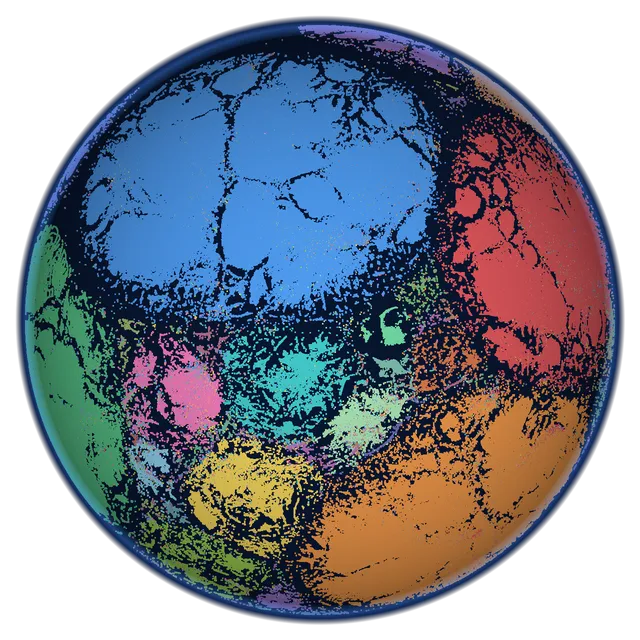
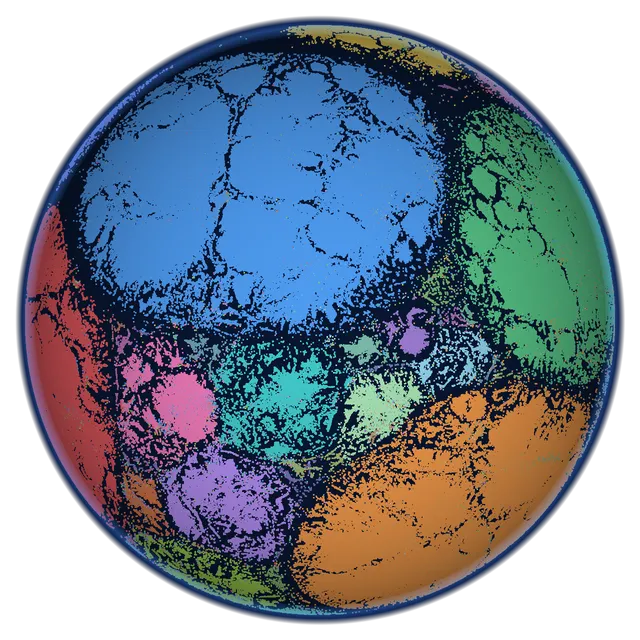
EarthDNA motus-genomes: globe from the full 24M-fragment embedding (#63)
All 24,073,986 fragments are embedded at once (fastsne_cpu on Grex, h 0.28, as
gtdb226all) instead of a 6M reference with the rest projected. The globe shows
the 12.3% hash subset (2,968,000 points), every one with conflict flags from the
full kNN graph. New version string so browsers refetch; preview re-rendered.

diff --git a/src/lib/earthdna/datasets.ts b/src/lib/earthdna/datasets.ts
@@ -178,9 +178,9 @@ export const DATASETS: Dataset[] = [
 		slug: 'motus-genomes',
 		name: 'mOTUs',
 		base: '/earthdna/motus41genomes',
-		version: 'motus41genomes-ref6m-1',
+		version: 'motus41genomes-all-1',
 		release: null,
-		count: 2966145,
+		count: 2968000,
 		unit: ['fragment', 'fragments'],
 		blurb: '10 kb fragments of the representative genome of every mOTUs-db 4.1 mOTU (124k genomes, 24 million fragments), placed by their 5-mers.',
 		source: '10 kb fragments of the mOTUs-db 4.1 representative genomes (GTDB r226 taxonomy)',
